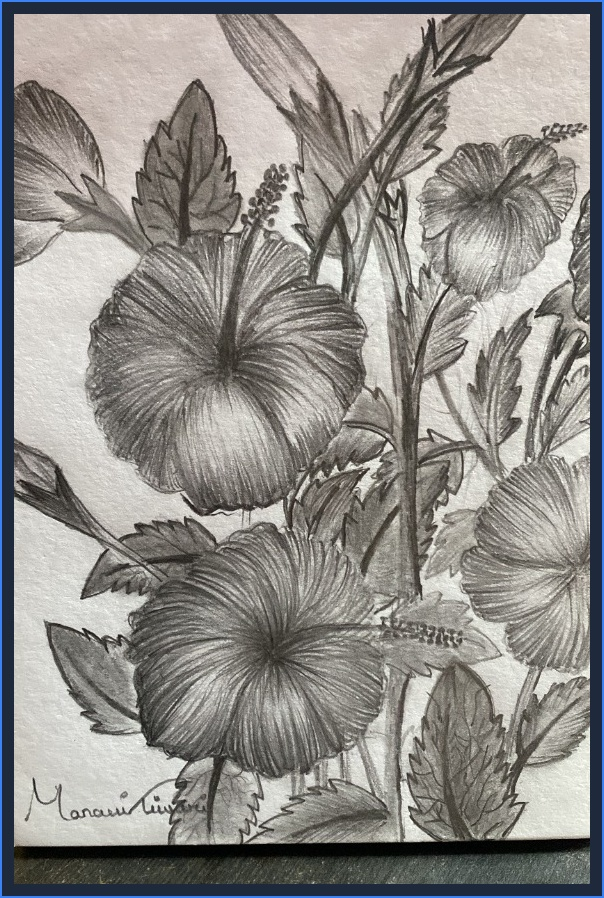
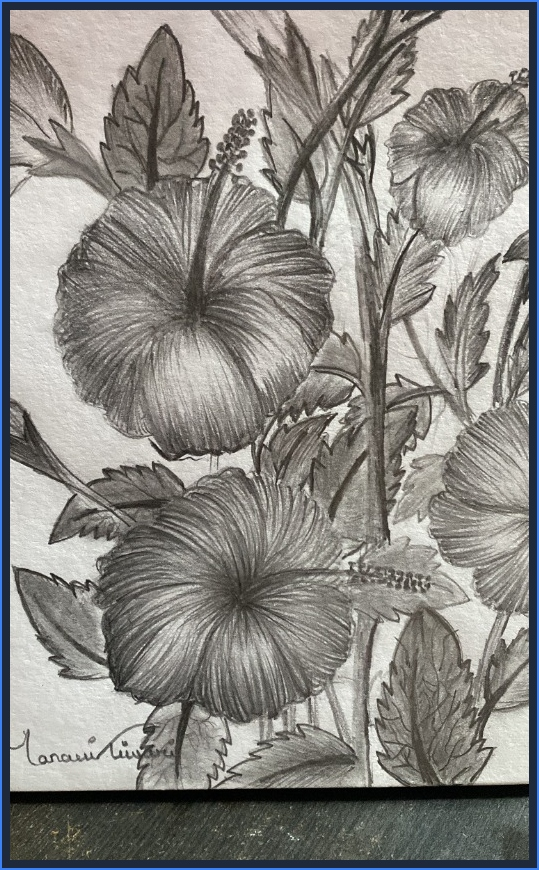
feat: crop out room/background clutter so only clean white sketch paper page appears

diff --git a/index.html b/index.html
@@ -476,10 +476,10 @@
       <!-- Creative Arts & Manavi's Unedited Original Camera Sketches Grid -->
       <div id="artGrid" class="art-grid">
 
-        <!-- 1. Eyeglasses Pencil Sketch Card (Original Framed Photo with Full Eyes & Signature) -->
-        <div class="art-card" data-art-category="sketch" data-img="assets/sketch_glasses_framed.jpg?v=2" data-title="Eyeglasses & Lips Pencil Sketch" data-category-name="Manavi Tiwari Original Sketch" data-desc="Framed original photo of handmade pencil sketch featuring eyes with stylish glasses, signed Manavi Tiwari.">
+        <!-- 1. Eyeglasses Pencil Sketch Card (White Sketch Paper Only) -->
+        <div class="art-card" data-art-category="sketch" data-img="assets/sketch_glasses_framed.jpg?v=3" data-title="Eyeglasses & Lips Pencil Sketch" data-category-name="Manavi Tiwari Original Sketch" data-desc="Framed original photo of handmade pencil sketch featuring eyes with stylish glasses, signed Manavi Tiwari.">
           <div class="art-img-wrapper">
-            <img src="assets/sketch_glasses_framed.jpg?v=2" alt="Eyeglasses Pencil Sketch Original Photo by Manavi Tiwari" class="art-img">
+            <img src="assets/sketch_glasses_framed.jpg?v=3" alt="Eyeglasses Pencil Sketch Original Photo by Manavi Tiwari" class="art-img">
             <div class="art-overlay">
               <span class="btn btn-primary btn-sm"><i class="fa-solid fa-expand"></i> View Framed Sketch</span>
             </div>
@@ -487,19 +487,19 @@
           <div class="art-body">
             <span class="art-category-label"><i class="fa-solid fa-pencil"></i> Sketches & Drawing</span>
             <h3 class="art-title">Eyeglasses & Lips Pencil Sketch</h3>
-            <p class="art-desc">Framed original photo of handmade pencil sketch featuring full eyes, glasses, lips & signature by Manavi Tiwari.</p>
+            <p class="art-desc">Clean white sketch paper artwork featuring eyes, glasses, lips & signature by Manavi Tiwari.</p>
             <div class="tech-tags">
               <span class="tag">Pencil Sketch</span>
-              <span class="tag">Framed Studio Art</span>
+              <span class="tag">White Sketch Paper</span>
               <span class="tag">Signed Original</span>
             </div>
           </div>
         </div>
 
-        <!-- 2. Windblown Tear Charcoal Portrait Card (Original Framed Photo with Full Face & Signature) -->
-        <div class="art-card" data-art-category="sketch" data-img="assets/sketch_crying_framed.jpg?v=2" data-title="Tear & Windblown Hair Charcoal Portrait" data-category-name="Manavi Tiwari Original Sketch" data-desc="Framed original photo of dramatic charcoal portrait sketch with tear drop on cheek and flowing hair, signed Manavi.">
+        <!-- 2. Windblown Tear Charcoal Portrait Card (White Sketch Paper Only) -->
+        <div class="art-card" data-art-category="sketch" data-img="assets/sketch_crying_framed.jpg?v=3" data-title="Tear & Windblown Hair Charcoal Portrait" data-category-name="Manavi Tiwari Original Sketch" data-desc="Framed original photo of dramatic charcoal portrait sketch with tear drop on cheek and flowing hair, signed Manavi.">
           <div class="art-img-wrapper">
-            <img src="assets/sketch_crying_framed.jpg?v=2" alt="Charcoal Portrait Original Photo by Manavi" class="art-img">
+            <img src="assets/sketch_crying_framed.jpg?v=3" alt="Charcoal Portrait Original Photo by Manavi" class="art-img">
             <div class="art-overlay">
               <span class="btn btn-primary btn-sm"><i class="fa-solid fa-expand"></i> View Framed Sketch</span>
             </div>
@@ -507,19 +507,19 @@
           <div class="art-body">
             <span class="art-category-label"><i class="fa-solid fa-pencil"></i> Sketches & Drawing</span>
             <h3 class="art-title">Tear & Windblown Hair Charcoal Portrait</h3>
-            <p class="art-desc">Framed original photo of dramatic charcoal portrait sketch featuring full eyes, tears & signature by Manavi.</p>
+            <p class="art-desc">Clean white sketch paper artwork featuring charcoal portrait & signature by Manavi.</p>
             <div class="tech-tags">
               <span class="tag">Charcoal Sketch</span>
-              <span class="tag">Framed Studio Art</span>
+              <span class="tag">White Sketch Paper</span>
               <span class="tag">Signed Original</span>
             </div>
           </div>
         </div>
 
-        <!-- 3. Hibiscus Floral Sketch Card (Original Framed Photo) -->
-        <div class="art-card" data-art-category="sketch" data-img="assets/sketch_hibiscus_framed.jpg?v=1" data-title="Hibiscus Botanical Graphite Sketch" data-category-name="Manavi Tiwari Original Sketch" data-desc="Framed original photo of detailed graphite pencil sketch of Hibiscus flowers & leaves, signed Manavi Tiwari.">
+        <!-- 3. Hibiscus Floral Sketch Card (White Sketch Paper Only) -->
+        <div class="art-card" data-art-category="sketch" data-img="assets/sketch_hibiscus_framed.jpg?v=3" data-title="Hibiscus Botanical Graphite Sketch" data-category-name="Manavi Tiwari Original Sketch" data-desc="Framed original photo of detailed graphite pencil sketch of Hibiscus flowers & leaves, signed Manavi Tiwari.">
           <div class="art-img-wrapper">
-            <img src="assets/sketch_hibiscus_framed.jpg?v=1" alt="Hibiscus Floral Sketch Original Photo by Manavi Tiwari" class="art-img">
+            <img src="assets/sketch_hibiscus_framed.jpg?v=3" alt="Hibiscus Floral Sketch Original Photo by Manavi Tiwari" class="art-img">
             <div class="art-overlay">
               <span class="btn btn-primary btn-sm"><i class="fa-solid fa-expand"></i> View Framed Sketch</span>
             </div>
@@ -527,19 +527,19 @@
           <div class="art-body">
             <span class="art-category-label"><i class="fa-solid fa-pencil"></i> Sketches & Drawing</span>
             <h3 class="art-title">Hibiscus Botanical Graphite Sketch</h3>
-            <p class="art-desc">Framed original photo of detailed graphite floral sketch, signed Manavi Tiwari.</p>
+            <p class="art-desc">Clean white sketch paper artwork of graphite floral sketch, signed Manavi Tiwari.</p>
             <div class="tech-tags">
               <span class="tag">Graphite Sketch</span>
-              <span class="tag">Framed Studio Art</span>
+              <span class="tag">White Sketch Paper</span>
               <span class="tag">Signed Original</span>
             </div>
           </div>
         </div>
 
-        <!-- 4. Moonlight Ocean Sailboat Sketch Card (Original Framed Photo) -->
-        <div class="art-card" data-art-category="sketch" data-img="assets/sketch_sailboat_framed.jpg?v=1" data-title="Moonlight Ocean Sailboat Charcoal Art" data-category-name="Manavi Tiwari Original Sketch" data-desc="Framed original photo of dramatic charcoal ocean landscape sketch of a sailboat under full moon & clouds, signed Manavi Dubey.">
+        <!-- 4. Moonlight Ocean Sailboat Sketch Card (White Sketch Paper Only) -->
+        <div class="art-card" data-art-category="sketch" data-img="assets/sketch_sailboat_framed.jpg?v=3" data-title="Moonlight Ocean Sailboat Charcoal Art" data-category-name="Manavi Tiwari Original Sketch" data-desc="Framed original photo of dramatic charcoal ocean landscape sketch of a sailboat under full moon & clouds, signed Manavi Dubey.">
           <div class="art-img-wrapper">
-            <img src="assets/sketch_sailboat_framed.jpg?v=1" alt="Sailboat Charcoal Art Original Photo by Manavi Dubey" class="art-img">
+            <img src="assets/sketch_sailboat_framed.jpg?v=3" alt="Sailboat Charcoal Art Original Photo by Manavi Dubey" class="art-img">
             <div class="art-overlay">
               <span class="btn btn-primary btn-sm"><i class="fa-solid fa-expand"></i> View Framed Sketch</span>
             </div>
@@ -547,10 +547,10 @@
           <div class="art-body">
             <span class="art-category-label"><i class="fa-solid fa-pencil"></i> Sketches & Drawing</span>
             <h3 class="art-title">Moonlight Ocean Sailboat Charcoal Art</h3>
-            <p class="art-desc">Framed original photo of dramatic charcoal ocean landscape sketch, signed Manavi Dubey.</p>
+            <p class="art-desc">Clean white sketch paper artwork of charcoal ocean landscape, signed Manavi Dubey.</p>
             <div class="tech-tags">
               <span class="tag">Charcoal Art</span>
-              <span class="tag">Framed Studio Art</span>
+              <span class="tag">White Sketch Paper</span>
               <span class="tag">Signed Original</span>
             </div>
           </div>
